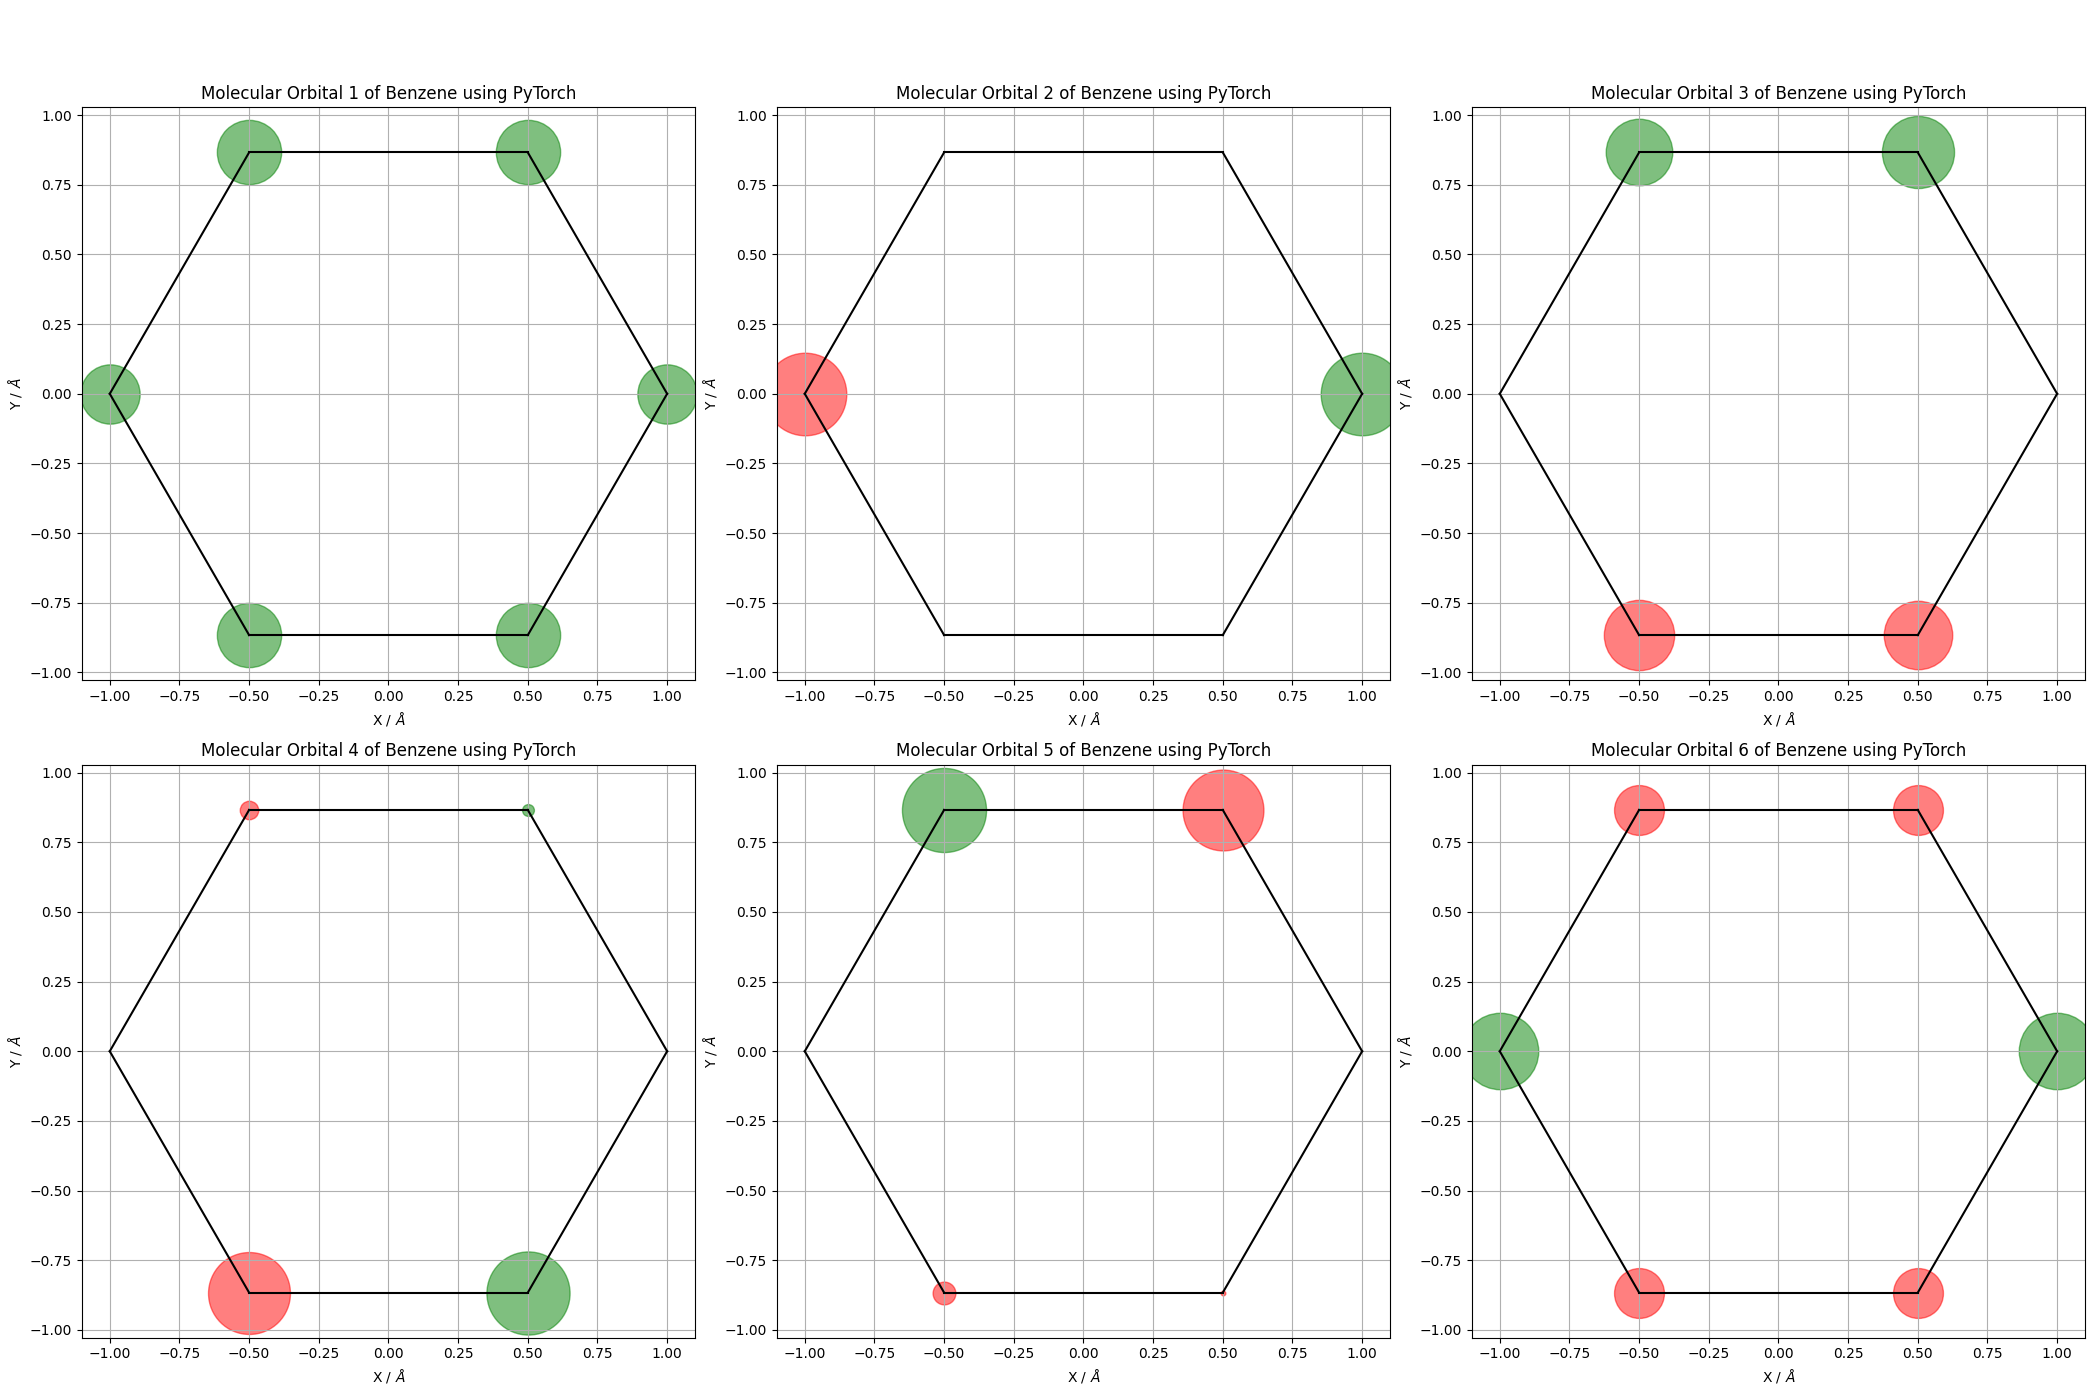
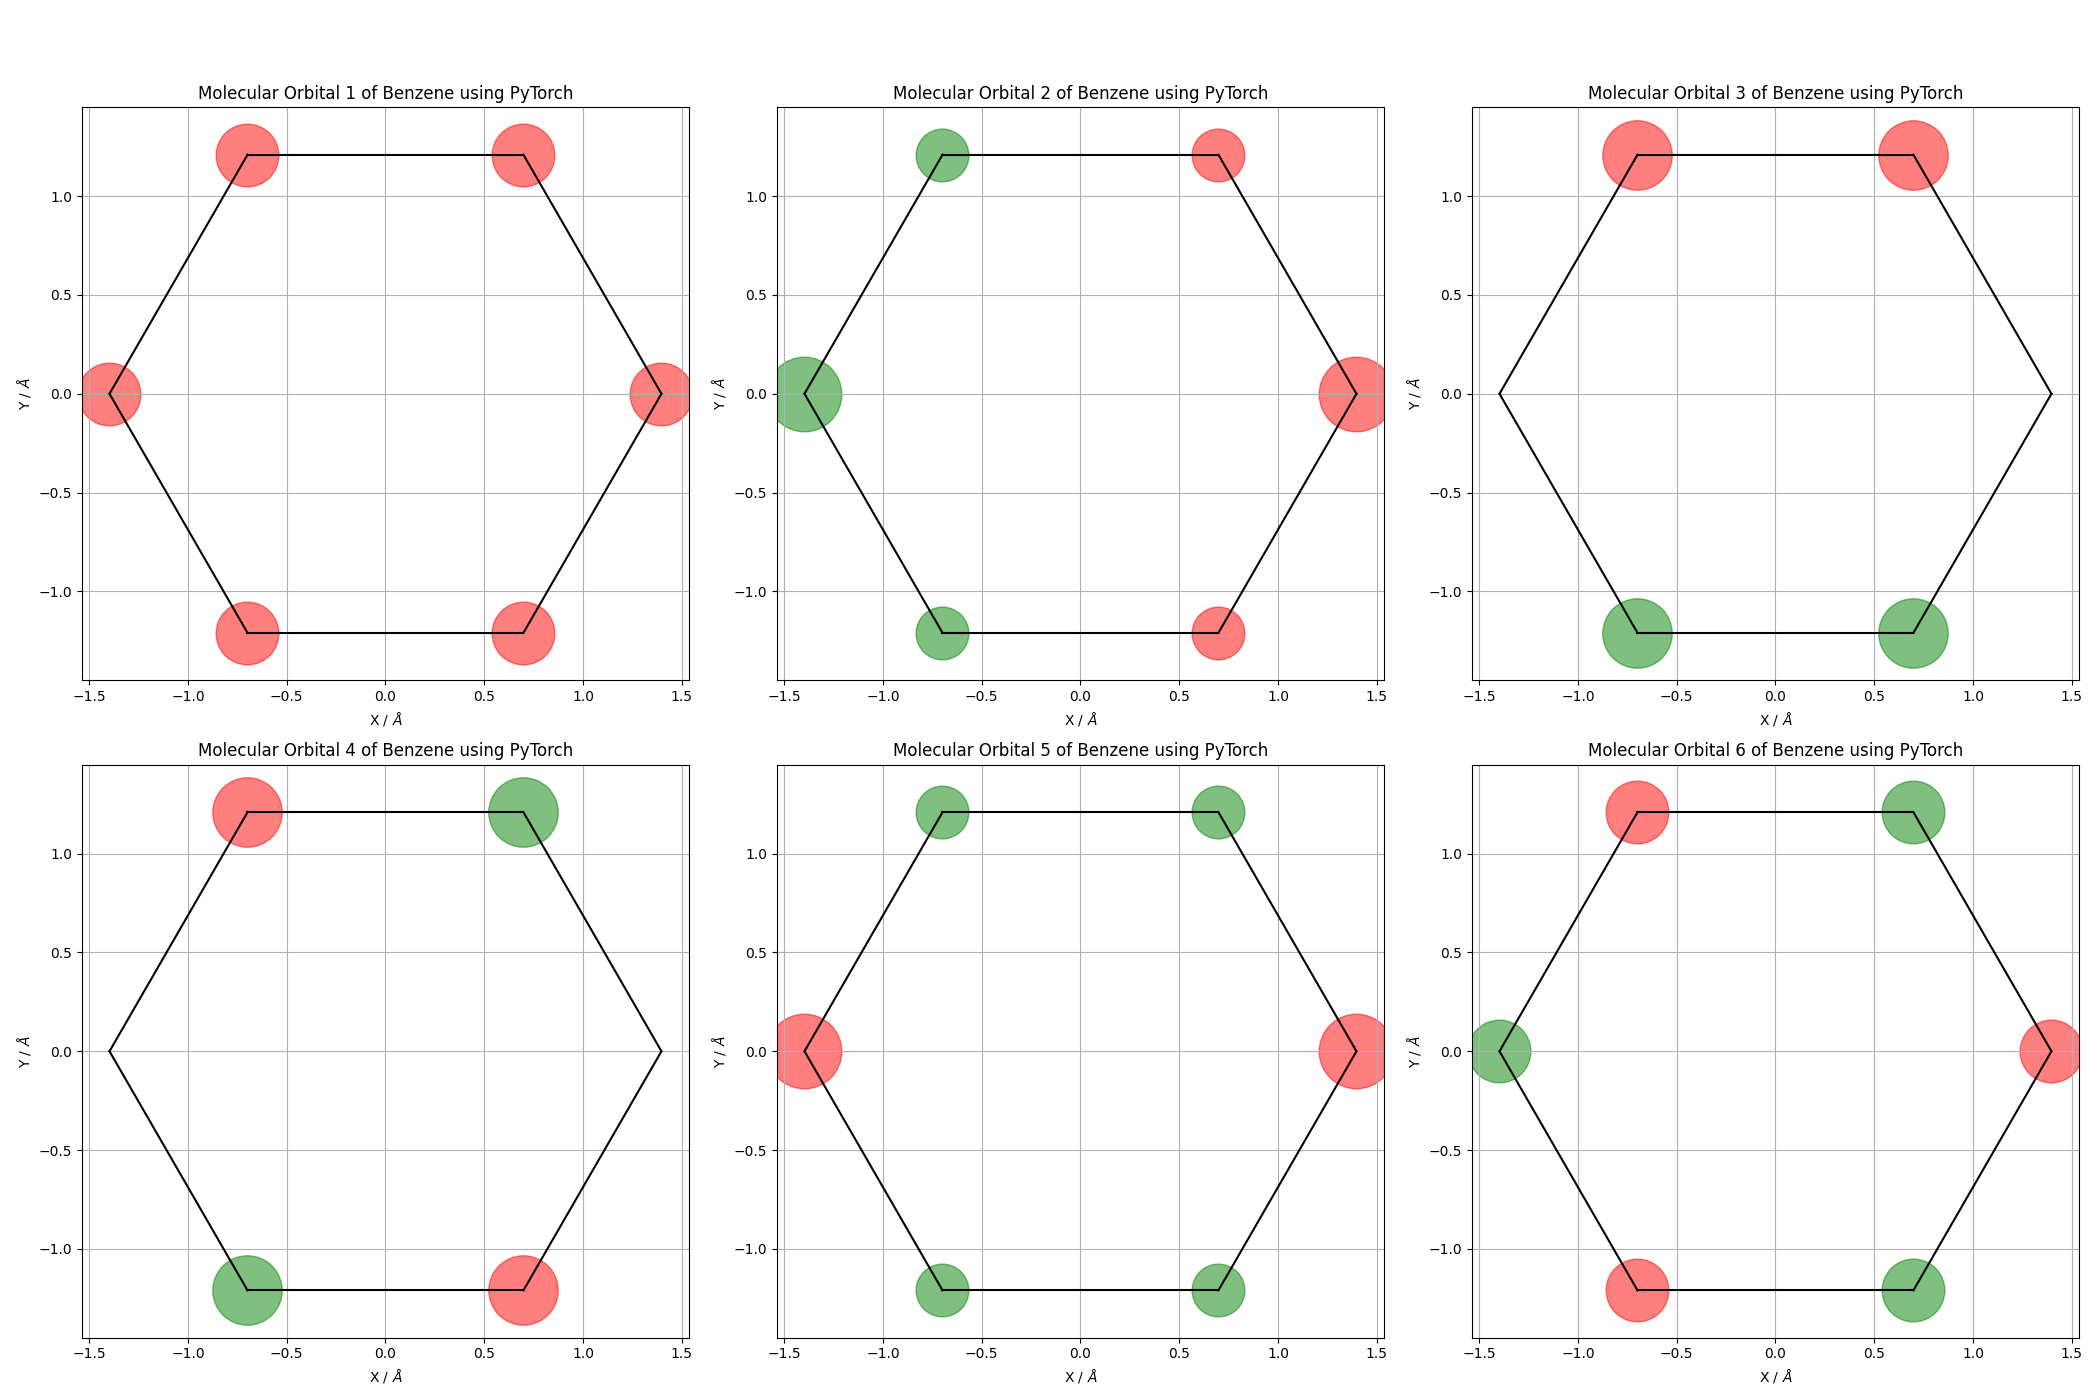
all the experiments should work.
However, general huckel oop file does not produce comparable energy levels for naphthalene to online huckel calculator. And benzene molecular orbital numpy doesn't match pytorch

diff --git a/inverse_huckel/plot_alpha_beta_test_file.py b/inverse_huckel/plot_alpha_beta_test_file.py
@@ -4,6 +4,25 @@ import torch
 import torch.nn.functional as F
 
 class MolecularSystem:
+    # def __init__(self, coordinates, alpha, beta, cutoff_distance, use_individual_params=False):
+    #     self.coordinates = torch.tensor(coordinates, dtype=torch.float32)
+    #     self.cutoff_distance = cutoff_distance
+    #     self.use_individual_params = use_individual_params
+
+    #     if use_individual_params:
+    #         self.alpha = torch.tensor(alpha, dtype=torch.float32, requires_grad=True)
+    #         self.beta = torch.tensor(beta, dtype=torch.float32, requires_grad=True)
+    #     else:
+    #         num_atoms = len(coordinates)
+    #         self.alpha = torch.tensor([alpha] * num_atoms, dtype=torch.float32, requires_grad=True)
+    #         self.beta_indices = generate_atom_pairs(coordinates, cutoff_distance)
+    #         self.beta = torch.tensor([beta] * len(self.beta_indices), dtype=torch.float32, requires_grad=True)
+        
+    #     self.H = torch.zeros((len(coordinates), len(coordinates)), dtype=torch.float32)
+    #     self.update_hamiltonian()
+
+
+
     def __init__(self, coordinates, alpha, beta, cutoff_distance): # original code that works
         self.coordinates = torch.tensor(coordinates, dtype=torch.float32)
         self.alpha = torch.tensor([alpha] * len(coordinates), requires_grad=True)
@@ -52,7 +71,7 @@ class MolecularSystem:
         atom_j_tensor = torch.tensor(atom_j)
         return torch.linalg.norm(atom_i_tensor - atom_j_tensor)
     
-    def update_hamiltonian(self):
+    def update_hamiltonian(self): # old code
         num_atoms = self.coordinates.shape[0]  # determines the number of atoms
         self.H = torch.zeros((num_atoms, num_atoms), dtype=torch.float32)  # initializes the Hamiltonian matrix H with zeros.
         
@@ -64,12 +83,33 @@ class MolecularSystem:
         for pair_idx, (i, j) in enumerate(self.beta_indices):
             self.H[i, j] = self.beta[pair_idx]
             self.H[j, i] = self.beta[pair_idx]
+    # def update_hamiltonian(self):
+    #     num_atoms = self.coordinates.shape[0]
+    #     self.H = torch.zeros((num_atoms, num_atoms), dtype=torch.float32)
+        
+    #     if self.use_individual_params:
+    #         for i in range(num_atoms):
+    #             self.H[i, i] = self.alpha[i]
+        
+    #         for pair_idx, (i, j) in enumerate(self.beta_indices):
+    #             self.H[i, j] = self.beta[pair_idx]
+    #             self.H[j, i] = self.beta[pair_idx]
+    #     else:
+    #         # Convert scalar alpha to a 1D tensor with the same value repeated
+    #         self.alpha = torch.tensor([self.alpha] * num_atoms, dtype=torch.float32)
+            
+    #         for i in range(num_atoms):
+    #             self.H[i, i] = self.alpha[i]
+            
+    #         for pair_idx, (i, j) in enumerate(generate_atom_pairs(self.coordinates, self.cutoff_distance)):
+    #             self.H[i, j] = self.beta[pair_idx]
+    #             self.H[j, i] = self.beta[pair_idx]
+
 
     def solve_eigenvalue_problem_pytorch(self):
         # Solve the eigenvalue problem for the Hamiltonian using PyTorch.
         eigenvalues, eigenvectors = torch.linalg.eigh(self.H)
         return eigenvalues, eigenvectors
-    
     
     def plot_energy_levels_pytorch(self, eigenvalues, molecule_name="Molecule"): # code to work for experiment 2
         eigenvalues = eigenvalues.clone().detach()
@@ -283,8 +323,9 @@ if __name__=="__main__":
 
     # create instance for benzene
     molecular_system_benzene = MolecularSystem(benzene_coordinates, alpha_initial, beta_initial, benzene_cutoff_distance)
-    optimise_and_plot(molecular_system_benzene, target_eigenvalues_benzene, "Benzene", benzene_cutoff_distance)
-    # why is parameter changes not running?
+    alpha_history, beta_history, loss_history = optimise_and_plot(molecular_system_benzene, target_eigenvalues_benzene, "Benzene", benzene_cutoff_distance)
+    plot_parameter_changes(alpha_history, beta_history, loss_history, "Benzene", molecular_system_benzene.beta_indices)
+    
 
     # create instance for naphthalene
     #molecular_system_naphthalene = MolecularSystem(naphthalene_coordinates, alpha_initial, beta_initial, naphthalene_cutoff_distance)

diff --git a/inverse_huckel/experiment_3_test_file.py b/inverse_huckel/experiment_3_test_file.py
@@ -9,47 +9,57 @@ from plot_alpha_beta_test_file import MolecularSystem
 from plot_alpha_beta_test_file import optimise_molecular_system, plot_parameter_changes, plot_molecule, optimise_and_plot
 
 # Define the coordinates of benzene
-benzene_coordinates = np.array([
-    [1.0, 0.0, 0.0],
-    [0.5, np.sqrt(3)/2, 0.0],
-    [-0.5, np.sqrt(3)/2, 0.0],
-    [-1.0, 0.0, 0.0],
-    [-0.5, -np.sqrt(3)/2, 0.0],
-    [0.5, -np.sqrt(3)/2, 0.0]
+# benzene_coordinates = np.array([
+#     [1.0, 0.0, 0.0],
+#     [0.5, np.sqrt(3)/2, 0.0],
+#     [-0.5, np.sqrt(3)/2, 0.0],
+#     [-1.0, 0.0, 0.0],
+#     [-0.5, -np.sqrt(3)/2, 0.0],
+#     [0.5, -np.sqrt(3)/2, 0.0]
+# ])
+benzene_coordinates = np.array([ # scaled benzene coordinates
+    [ 1.3965    ,  0.        ,  0.        ],
+    [ 0.69825   ,  1.2095694 ,  0.        ],
+    [-0.69825   ,  1.2095694 ,  0.        ],
+    [-1.3965    ,  0.        ,  0.        ],
+    [-0.69825   , -1.2095694 ,  0.        ],
+    [ 0.69825   , -1.2095694 ,  0.        ]
 ])
 
 # Set parameters
 alpha_initial_range = (-1.5, -0.8)
 beta_initial_range = (-1.5, -0.8)
-cutoff_distance = 1.0
+cutoff_distance = 2.0
 
 # Generate random alpha and beta values within the specified range
 random_alphas = np.random.uniform(*alpha_initial_range, size=(6,))
 random_betas = np.random.uniform(*beta_initial_range, size=(6,))
 
-# Print random alpha and beta values
-print(f"Random Alpha Values: {random_alphas}")
-print(f"Random Beta Values: {random_betas}")
+for (alpha, beta) in zip(random_alphas, random_betas):
 
-# Target eigenvalues for benzene
-target_eigenvalues_benzene = torch.tensor([-2.0, -1.0, -1.0, 1.0, 1.0, 2.0], dtype=torch.float32, requires_grad=False)
+    # Print random alpha and beta values
+    print(f"Random Alpha Values: {alpha}")
+    print(f"Random Beta Values: {beta}")
 
-# Create instance of MolecularSystem with random alpha and beta values
-molecular_system_benzene = MolecularSystem(benzene_coordinates, random_alphas, random_betas, cutoff_distance)
+    # Target eigenvalues for benzene
+    target_eigenvalues_benzene = torch.tensor([-2.0, -1.0, -1.0, 1.0, 1.0, 2.0], dtype=torch.float32, requires_grad=False)
 
-# Perform optimization
-alpha_history, beta_history, loss_history = optimise_molecular_system(molecular_system_benzene, target_eigenvalues_benzene)
+    # Create instance of MolecularSystem with random alpha and beta values
+    molecular_system_benzene = MolecularSystem(benzene_coordinates, alpha, beta, cutoff_distance)
 
-# Plot parameter changes
-plot_parameter_changes(alpha_history, beta_history, loss_history, "Benzene", molecular_system_benzene.beta_indices)
-plt.savefig("parameter_changes_experiment_3.png")
+    # Perform optimization
+    alpha_history, beta_history, loss_history = optimise_molecular_system(molecular_system_benzene, target_eigenvalues_benzene)
 
-# Plot molecule before and after optimisation
-plot_molecule(molecular_system_benzene.coordinates, alpha_history[0], beta_history[0],
-              "Benzene - Before Optimisation", cutoff_distance)
-plt.savefig("before_optimisation_experiment_3.png")
-plot_molecule(molecular_system_benzene.coordinates, alpha_history[-1], beta_history[-1],
-              "Benzene - After Optimisation", cutoff_distance)
-plt.savefig("after_optimisation_experiment_3.png")
+    # Plot parameter changes
+    plot_parameter_changes(alpha_history, beta_history, loss_history, "Benzene", molecular_system_benzene.beta_indices)
+    plt.savefig("parameter_changes_experiment_3.png")
 
-plt.show()
+    # Plot molecule before and after optimisation
+    plot_molecule(molecular_system_benzene.coordinates, alpha_history[0], beta_history[0],
+                "Benzene - Before Optimisation", cutoff_distance)
+    plt.savefig("before_optimisation_experiment_3.png")
+    plot_molecule(molecular_system_benzene.coordinates, alpha_history[-1], beta_history[-1],
+                "Benzene - After Optimisation", cutoff_distance)
+    plt.savefig("after_optimisation_experiment_3.png")
+
+    plt.show()

diff --git a/inverse_huckel/general_huckel_oop.py b/inverse_huckel/general_huckel_oop.py
@@ -7,7 +7,7 @@ import torch.linalg as linalg
 
 alpha = -10.0
 beta = -1.0
-cutoff_distance = 2.0
+cutoff_distance = 2.0 
 
 # benzene_coordinates = np.array([
 #     [-4.461121, 1.187057, -0.028519],
@@ -18,13 +18,22 @@ cutoff_distance = 2.0
 #     [-5.092743, -0.058655, -0.010193]
 # ])
 
-benzene_coordinates = np.array([
-    [1.0, 0.0, 0.0],
-    [0.5, np.sqrt(3)/2, 0.0],
-    [-0.5, np.sqrt(3)/2, 0.0],
-    [-1.0, 0.0, 0.0],
-    [-0.5, -np.sqrt(3)/2, 0.0],
-    [0.5, -np.sqrt(3)/2, 0.0]
+# benzene_coordinates = np.array([
+#     [1.0, 0.0, 0.0],
+#     [0.5, np.sqrt(3)/2, 0.0],
+#     [-0.5, np.sqrt(3)/2, 0.0],
+#     [-1.0, 0.0, 0.0],
+#     [-0.5, -np.sqrt(3)/2, 0.0],
+#     [0.5, -np.sqrt(3)/2, 0.0]
+# ])
+
+benzene_coordinates = np.array([ # scaled benzene coordinates
+    [ 1.3965    ,  0.        ,  0.        ],
+    [ 0.69825   ,  1.2095694 ,  0.        ],
+    [-0.69825   ,  1.2095694 ,  0.        ],
+    [-1.3965    ,  0.        ,  0.        ],
+    [-0.69825   , -1.2095694 ,  0.        ],
+    [ 0.69825   , -1.2095694 ,  0.        ]
 ])
  #benzene
  # create molecular system instance
@@ -38,11 +47,8 @@ molecular_system_benzene = MolecularSystem(benzene_coordinates, alpha, beta, cut
 #molecular_system_benzene.plot_energy_levels(energies_benzene, "Benzene")
 #print("benzene", energies_benzene)
 
-#obtain energy
-
-#energies_pytorch, wavefunctions_pytorch = molecular_system_benzene.solve_eigenvalue_problem_pytorch()
+#obtain energy- pytorch
 #energies_pytorch, eigenvectors_pytorch = molecular_system_benzene.solve_eigenvalue_problem_pytorch()
-
 
 ## plot molecular orbitals - pytorch
 #molecular_system_benzene.plot_molecular_orbitals_pytorch(benzene_coordinates,"Benzene")
@@ -75,13 +81,13 @@ molecular_system_naphthalene = MolecularSystem(naphthalene_coordinates, alpha, b
 
 # obtain energy
 energies_naphthalene = molecular_system_naphthalene.solve_eigenvalue_problem()[0]
-print("energies naphthalene:", energies_naphthalene)
+#print("energies naphthalene:", energies_naphthalene)
 
 # plot energy levels
 molecular_system_naphthalene.plot_energy_levels(energies_naphthalene, "Naphthalene")
 
 #obtain energy - pytorch
-energies_pytorch = molecular_system_naphthalene.solve_eigenvalue_problem_pytorch()
+#energies_pytorch = molecular_system_naphthalene.solve_eigenvalue_problem_pytorch()
 energies_pytorch, eigenvectors_pytorch = molecular_system_naphthalene.solve_eigenvalue_problem_pytorch()
 
 
@@ -90,5 +96,5 @@ energies_pytorch, eigenvectors_pytorch = molecular_system_naphthalene.solve_eige
 
 #plot energy levels-pytorch
 molecular_system_naphthalene.plot_energy_levels_pytorch(energies_pytorch, "Naphthalene")
-print("pytorch energies", energies_pytorch)
+#print("pytorch energies", energies_pytorch)
 

diff --git a/inverse_huckel/experiment_2_test_file.py b/inverse_huckel/experiment_2_test_file.py
@@ -24,7 +24,7 @@ naphthalene_coordinates = np.array([
 
 alpha_initial = -1.0
 beta_initial = -1.0
-cutoff_distance = 1.5
+cutoff_distance = 2.0
 
 # Target eigenvalues for optimisation
 target_eigenvalues_naphthalene = torch.tensor([-4.3, -3.6, -3.3, -3, -2.5, -1.2, -1.0, 1.3, 1.6, 2.3], dtype=torch.float32, requires_grad=False)
@@ -60,20 +60,9 @@ plot_molecule(molecular_system_naphthalene.coordinates, alpha_history[-1], beta_
                   "Naphthalene - After Optimisation", cutoff_distance, alpha_scale=500, beta_scale=15)
 plt.savefig("after_optimisation_experiment_2.png")
  
-#plot_parameter_changes(alpha_history, beta_history, loss_history, "Naphthalene", molecular_system_naphthalene.beta_indices)
-
-#plt.savefig("parameter_changes_experiment_2.png")
-   
-
-
-# Optimise alpha and beta parameters and plot the results
-#optimise_and_plot(molecular_system_naphthalene, target_eigenvalues_naphthalene, "Naphthalene", cutoff_distance)
 
 # Recalculate the HOMO-LUMO gap after optimisation
 optimised_energies_naphthalene = molecular_system_naphthalene.solve_eigenvalue_problem_pytorch()[0]
-
-# calling optimise molecular system
-#alpha_history, beta_history, loss_history = optimise_molecular_system(molecular_system_naphthalene, target_eigenvalues_naphthalene)
 
 # Calculate the HOMO-LUMO gap for optimised energies
 homo_optimised = optimised_energies_naphthalene[4]  # 5th element
@@ -86,7 +75,6 @@ print(f"The optimised HOMO-LUMO gap is {lumo_optimised:.6f} - {homo_optimised:.6
 plot_parameter_changes(alpha_history, beta_history, loss_history,"Naphthalene" , molecular_system_naphthalene.beta_indices)
 plt.savefig("parameter_changes_experiment_2.png")
 
-# why is this running twice? i think issue is with optimise and plot not handling alpha history beta histry and loss history
 
 
 

diff --git a/inverse_huckel/experiment_4_test_file.py b/inverse_huckel/experiment_4_test_file.py
@@ -10,17 +10,25 @@ from plot_alpha_beta_test_file import optimise_molecular_system, plot_parameter_
 
 alpha_initial = -1.0
 beta_initial = -1.0
-benzene_cutoff_distance = 1.0
+benzene_cutoff_distance = 2.0
 
 target_eigenvalues_benzene = torch.tensor([-2.0, -1.0, -1.0, 1.0, 1.0, 2.0], dtype=torch.float32, requires_grad=False)
 
-benzene_coordinates = np.array([
-    [1.0, 0.0, 0.0],
-    [0.5, np.sqrt(3)/2, 0.0],
-    [-0.5, np.sqrt(3)/2, 0.0],
-    [-1.0, 0.0, 0.0],
-    [-0.5, -np.sqrt(3)/2, 0.0],
-    [0.5, -np.sqrt(3)/2, 0.0]
+# benzene_coordinates = np.array([
+#     [1.0, 0.0, 0.0],
+#     [0.5, np.sqrt(3)/2, 0.0],
+#     [-0.5, np.sqrt(3)/2, 0.0],
+#     [-1.0, 0.0, 0.0],
+#     [-0.5, -np.sqrt(3)/2, 0.0],
+#     [0.5, -np.sqrt(3)/2, 0.0]
+# ])
+benzene_coordinates = np.array([ # scaled benzene coordinates
+    [ 1.3965    ,  0.        ,  0.        ],
+    [ 0.69825   ,  1.2095694 ,  0.        ],
+    [-0.69825   ,  1.2095694 ,  0.        ],
+    [-1.3965    ,  0.        ,  0.        ],
+    [-0.69825   , -1.2095694 ,  0.        ],
+    [ 0.69825   , -1.2095694 ,  0.        ]
 ])
 
 # Define learning rates to investigate

diff --git a/inverse_huckel/experiment_1_test_file.py b/inverse_huckel/experiment_1_test_file.py
@@ -10,7 +10,7 @@ from plot_alpha_beta_test_file import MolecularSystem, \
 
 alpha_initial = -1.0
 beta_initial = -1.0
-cutoff_distance = 1.0  # Adjusted cutoff distance for the perfect hexagon
+cutoff_distance = 2.0  # Adjusted cutoff distance for the perfect hexagon
 
 # Target eigenvalues for benzene
 target_eigenvalues_benzene = torch.tensor([-2.0, -0.5, -0.5, 0.5, 0.5, 2.0], dtype=torch.float32, requires_grad=False)
@@ -23,6 +23,14 @@ benzene_coordinates = np.array([
     [-1.0, 0.0, 0.0],
     [-0.5, -np.sqrt(3)/2, 0.0],
     [0.5, -np.sqrt(3)/2, 0.0]
+])
+benzene_coordinates = np.array([ # scaled benzene coordinates
+    [ 1.3965    ,  0.        ,  0.        ],
+    [ 0.69825   ,  1.2095694 ,  0.        ],
+    [-0.69825   ,  1.2095694 ,  0.        ],
+    [-1.3965    ,  0.        ,  0.        ],
+    [-0.69825   , -1.2095694 ,  0.        ],
+    [ 0.69825   , -1.2095694 ,  0.        ]
 ])
 
 molecule_name ="Benzene"

diff --git a/inverse_huckel/general_huckel_functionality.py b/inverse_huckel/general_huckel_functionality.py
@@ -36,20 +36,16 @@ class MolecularSystem:
         H.fill_diagonal_(self.alpha.item())  # Fill diagonal with scalar value of alpha
         return H
 
-    # def update_hamiltonian(self):
-    #     self.H = self.construct_hamiltonian()
-
     def solve_eigenvalue_problem(self):
-        #print (self.H)
-        #print (np.linalg.eigh(self.H))
-        # H_numpy = self.H.detach().numpy()  # Detach the tensor before converting to NumPy array
-        # return np.linalg.eigh(H_numpy)
+        print ("hamiltonian", self.H)
+        print (np.linalg.eigh(self.H))
 
         return np.linalg.eigh(self.H)
     
     
     def solve_eigenvalue_problem_pytorch(self):
         eigenvalues, eigenvectors = torch.linalg.eigh(self.H)
+        print (eigenvalues,eigenvectors)
         return eigenvalues, eigenvectors
     
     def plot_molecular_orbitals(self, coordinates, molecule_name="Molecule"):
